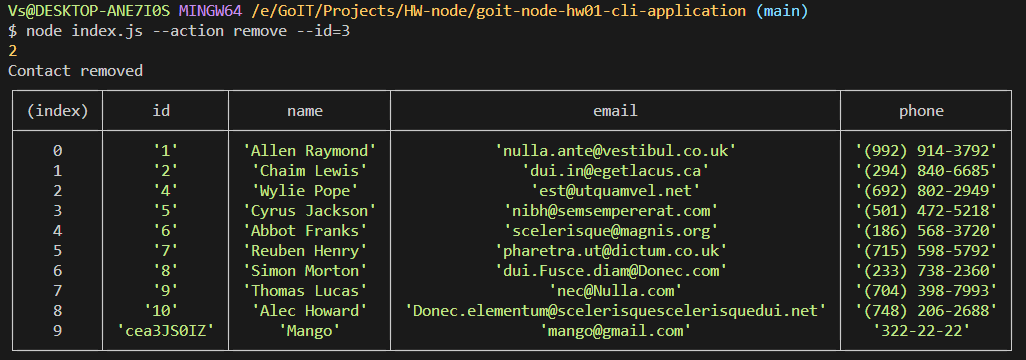
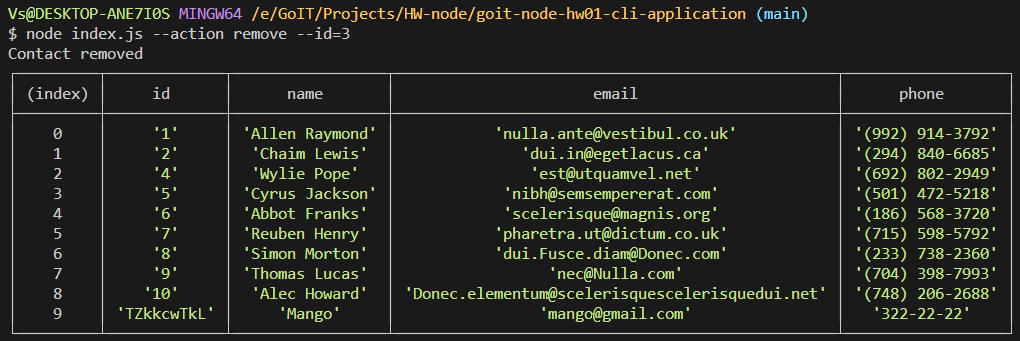
fix forth screen

diff --git a/contacts.js b/contacts.js
@@ -23,8 +23,6 @@ async function removeContact(contactId) {
 
   const isExistContactInDb = contacts.findIndex(contact => contact.id === contactId.toString());
 
-  console.log(isExistContactInDb);
-
   if (isExistContactInDb === -1) {
     console.log(`There is no contact with id ${contactId}`);
     return contacts;
